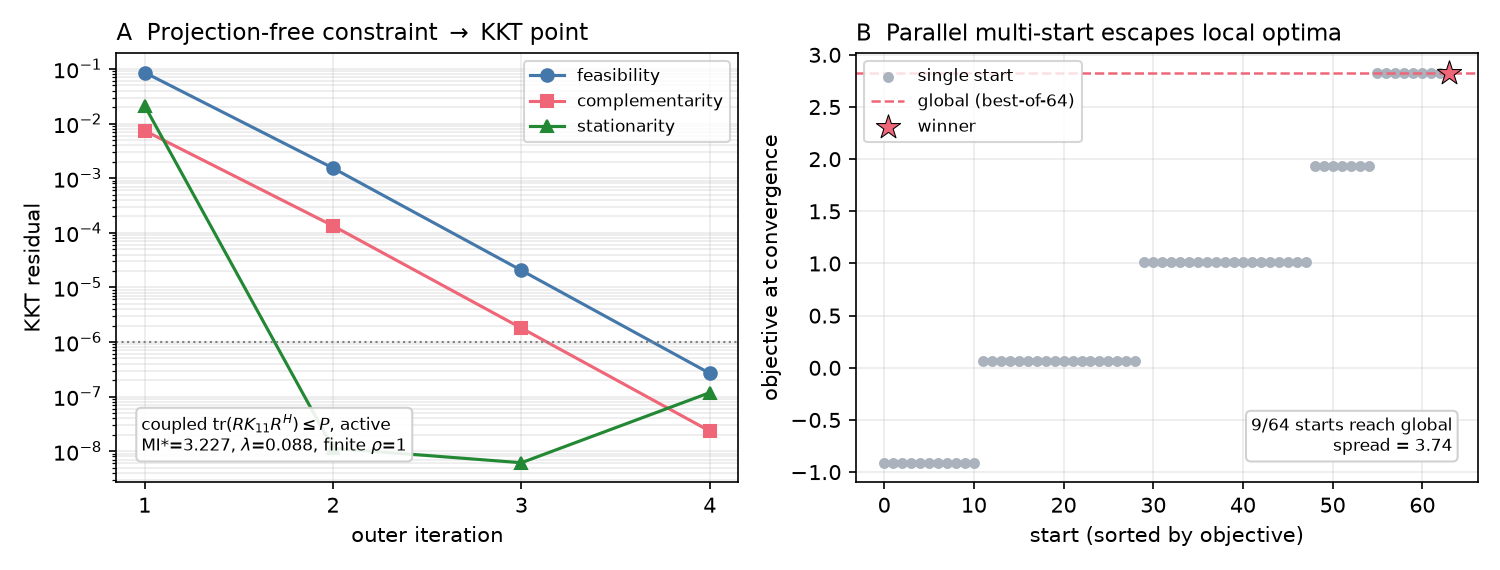
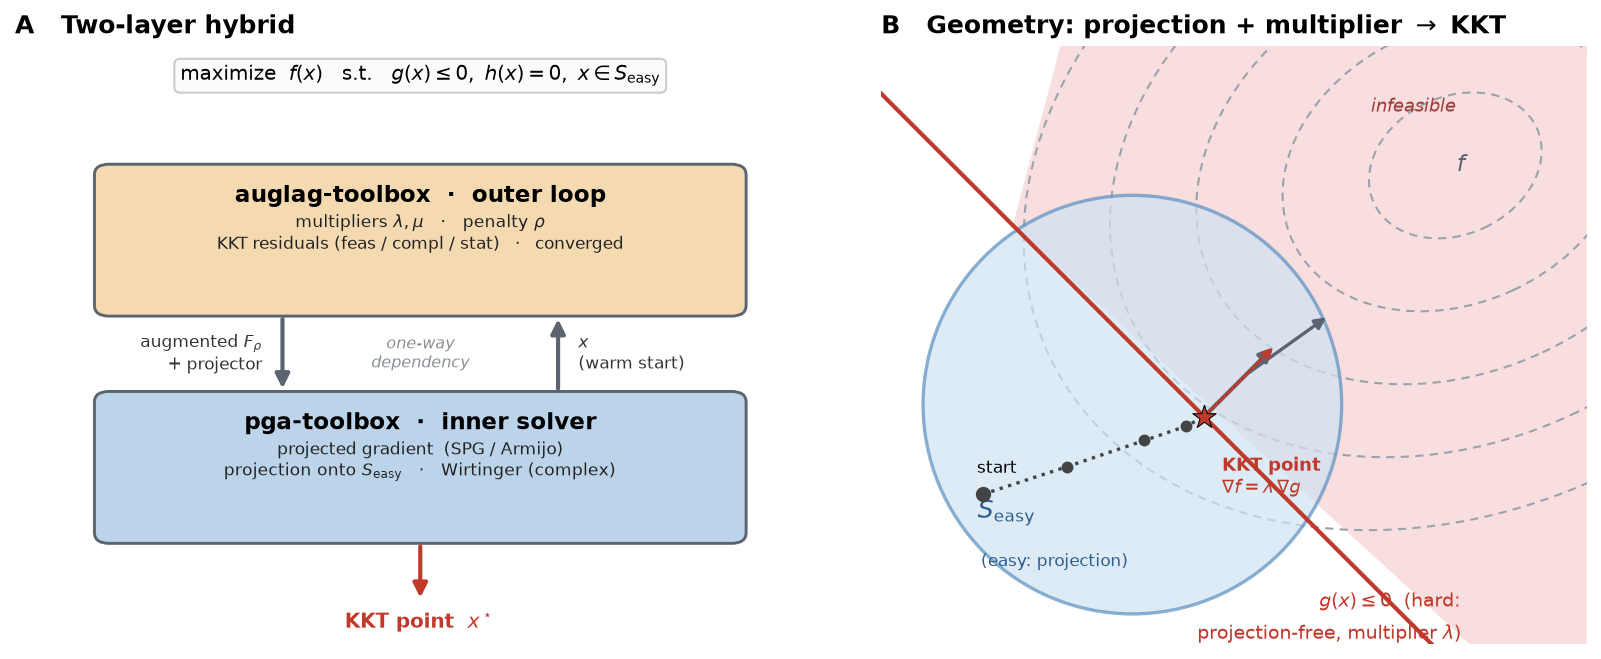
Make visual abstract a conceptual schematic
Replace the data-plot visual abstract with a conceptual diagram: (A) the
two-layer hybrid architecture (auglag outer loop over the pga-toolbox inner
solver); (B) the geometry of projecting onto the easy set S_easy while a
multiplier handles a projection-free hard constraint g(x)<=0, converging to a
KKT point where grad f = lambda grad g. Update README/examples captions.

diff --git a/examples/visual_abstract.py b/examples/visual_abstract.py
@@ -1,16 +1,17 @@
-"""Visual abstract for auglag-toolbox (two panels, both from actual runs).
+"""Conceptual visual abstract for auglag-toolbox (a schematic, not a data plot).
 
-  A  Augmented Lagrangian enforces a projection-free constraint: on the coupled,
-     covariance-dependent relay node-power problem (E2), the KKT residuals
-     (feasibility / complementarity / stationarity) collapse to ~1e-7 at a
-     finite rho, i.e. the solver reaches a feasible KKT point.
-  B  Parallel multi-start escapes local optima: on a multimodal constrained
-     problem, best-of-B (the winner) reaches the global optimum while many of
-     the B independent starts get stuck at worse local optima.
+  Left  : the two-layer architecture -- an outer augmented-Lagrangian loop
+          (multipliers for projection-free constraints) wrapping an inner
+          projected first-order solver (pga-toolbox) that handles the easy,
+          projectable constraints.
+  Right : the geometry -- the feasible region is the easy set S_easy (a ball,
+          projectable) intersected with a hard, projection-free constraint
+          g(x) <= 0. The inner solver projects onto S_easy; the outer multiplier
+          pulls the iterate onto the active hard constraint, converging to a KKT
+          point where grad f = lambda * grad g.
 
-Nothing is hard-coded -- every plotted number comes from the optimiser.
+This is an illustration (no experimental numbers). Run to regenerate the figure:
 
-Run:
     uv run --extra examples python examples/visual_abstract.py
 """
 
@@ -19,142 +20,134 @@ from __future__ import annotations
 import pathlib
 
 import numpy as np
-import torch
 
-from pga_toolbox import (
-    pga_ascent_spg,
-    project_frobenius_ball,
-    project_frobenius_ball_batched,
-)
+import matplotlib
+matplotlib.use("Agg")
+import matplotlib.pyplot as plt
+from matplotlib.patches import Circle, Ellipse, FancyArrowPatch, FancyBboxPatch, Polygon
 
-from auglag_toolbox import augmented_lagrangian, augmented_lagrangian_batched
-
-torch.set_default_dtype(torch.float64)
 FIG = pathlib.Path(__file__).resolve().parent.parent / "docs" / "figures"
 
-
-def logdet_pd(A):
-    A = 0.5 * (A + A.transpose(-1, -2).conj())
-    return torch.linalg.slogdet(A).logabsdet
-
-
-def randmat(d, seed, scale=1.0):
-    g = torch.Generator().manual_seed(seed)
-    return scale * torch.randn(d, d, generator=g, dtype=torch.float64)
+C_OUTER = "#f5d9b0"   # auglag (outer)
+C_INNER = "#bcd4ea"   # pga (inner)
+C_EASY = "#cfe3f3"    # S_easy disk
+C_INFEAS = "#f4c9c9"  # infeasible region
+C_OBJ = "#9aa3ad"     # objective contours
+C_ACC = "#c0392b"     # accents (KKT, constraint)
 
 
-def btrace(A):
-    return torch.diagonal(A, dim1=-2, dim2=-1).sum(-1)
+def _box(ax, x, y, w, h, fc, title, lines):
+    ax.add_patch(FancyBboxPatch((x, y), w, h, boxstyle="round,pad=0.02,rounding_size=0.18",
+                                fc=fc, ec="#5b6470", lw=1.4, zorder=2))
+    ax.text(x + w / 2, y + h - 0.32, title, ha="center", va="top",
+            fontsize=11, fontweight="bold", zorder=3)
+    ax.text(x + w / 2, y + h - 0.78, lines, ha="center", va="top",
+            fontsize=8.4, zorder=3, color="#222")
 
 
-def panel_a_data():
-    """Coupled, covariance-dependent relay node-power constraint (E2)."""
-    d, sigma, Pf = 2, 0.5, 4.0
-    H2 = randmat(d, seed=3)
-    I = torch.eye(d, dtype=torch.float64)
-
-    def mi(F, R):
-        G = H2 @ R @ F
-        C = sigma**2 * (H2 @ R @ R.T @ H2.T) + sigma**2 * I
-        return logdet_pd(G @ G.T + C) - logdet_pd(C)
-
-    def easy_proj(params):
-        F, R = params
-        return [project_frobenius_ball(F, Pf), R]
-
-    F = randmat(d, seed=4, scale=0.3).clone().requires_grad_(True)
-    R = randmat(d, seed=5, scale=0.3).clone().requires_grad_(True)
-    pga_ascent_spg(lambda: mi(F, R), [F, R], projector=easy_proj,
-                   max_iter=400, forward_budget=600)
-    with torch.no_grad():
-        P_relay = 2.0 * float(torch.trace(F @ F.T + sigma**2 * I))
-
-    F = randmat(d, seed=4, scale=0.3).clone().requires_grad_(True)
-    R = randmat(d, seed=5, scale=0.3).clone().requires_grad_(True)
-
-    def g_relay():
-        K11 = F @ F.T + sigma**2 * I
-        return torch.trace(R @ K11 @ R.T) - P_relay
-
-    res = augmented_lagrangian(lambda: mi(F, R), [F, R],
-                               inequality=[g_relay], easy_projector=easy_proj)
-    feas = np.array([h["feas"] for h in res.history])
-    compl = np.array([h["compl"] for h in res.history])
-    stat = np.array([h["stat"] for h in res.history])
-    return feas, compl, stat, res.objective, res.multipliers_ineq[0], res.rho
+def _arrow(ax, p0, p1, color="#5b6470", lw=2.0, style="-|>", ms=14):
+    ax.add_patch(FancyArrowPatch(p0, p1, arrowstyle=style, mutation_scale=ms,
+                                 lw=lw, color=color, zorder=4))
 
 
-def panel_b_data():
-    """Multimodal tilted double well with an active quadratic constraint."""
-    n, tilt, P, cap, B = 6, 0.5, 12.0, 5.5, 64
-    Xb = (0.6 * torch.randn(B, n, generator=torch.Generator().manual_seed(123),
-                            dtype=torch.float64)).clone().requires_grad_(True)
-    res = augmented_lagrangian_batched(
-        lambda: (-(Xb**2 - 1) ** 2 + tilt * Xb).sum(-1), [Xb],
-        inequality=[lambda: (Xb**2).sum(-1) - cap],
-        easy_projector=lambda ps: [project_frobenius_ball_batched(ps[0], P)])
-    obj = res.objective.detach().numpy()
-    return obj, res.winner, B
+def architecture(ax):
+    ax.set_xlim(0, 10)
+    ax.set_ylim(0, 10)
+    ax.axis("off")
+    ax.set_title("A   Two-layer hybrid", fontsize=12, loc="left", fontweight="bold")
+
+    ax.text(5, 9.5, r"maximize  $f(x)$   s.t.   $g(x)\leq 0,\ h(x)=0,\ x\in S_{\mathrm{easy}}$",
+            ha="center", va="center", fontsize=9.5,
+            bbox=dict(boxstyle="round", fc="#fbfbfb", ec="0.8"))
+
+    _box(ax, 1.0, 5.5, 8.0, 2.5, C_OUTER, "auglag-toolbox  ·  outer loop",
+         "multipliers $\\lambda,\\mu$   ·   penalty $\\rho$\n"
+         "KKT residuals (feas / compl / stat)   ·   converged")
+    _box(ax, 1.0, 1.7, 8.0, 2.5, C_INNER, "pga-toolbox  ·  inner solver",
+         "projected gradient  (SPG / Armijo)\n"
+         "projection onto $S_{\\mathrm{easy}}$   ·   Wirtinger (complex)")
+
+    _arrow(ax, (3.3, 5.5), (3.3, 4.2))           # outer -> inner
+    ax.text(3.05, 4.85, "augmented $F_\\rho$\n+ projector", ha="right", va="center",
+            fontsize=8.2, color="#333")
+    _arrow(ax, (6.7, 4.2), (6.7, 5.5))           # inner -> outer
+    ax.text(6.95, 4.85, "$x$\n(warm start)", ha="left", va="center",
+            fontsize=8.2, color="#333")
+    ax.text(5.0, 4.85, "one-way\ndependency", ha="center", va="center",
+            fontsize=7.6, style="italic", color="#8a8f96")
+
+    _arrow(ax, (5.0, 1.7), (5.0, 0.7), color=C_ACC)
+    ax.text(5.0, 0.35, r"KKT point  $x^\star$", ha="center", va="center",
+            fontsize=9.5, fontweight="bold", color=C_ACC)
+
+
+def geometry(ax):
+    ax.set_xlim(-0.5, 5.4)
+    ax.set_ylim(-0.7, 4.3)
+    ax.set_aspect("equal")
+    ax.axis("off")
+    ax.set_title("B   Geometry: projection + multiplier $\\to$ KKT", fontsize=12,
+                 loc="left", fontweight="bold")
+
+    opt = np.array([4.3, 3.3])          # unconstrained objective optimum (outside)
+    disk_c = np.array([1.6, 1.3])
+    disk_r = 1.75
+
+    # objective contours (dashed ellipses centred at the unconstrained optimum)
+    for k in range(1, 6):
+        ax.add_patch(Ellipse(opt, 1.5 * k, 1.15 * k, angle=25, fill=False,
+                             ec=C_OBJ, ls=(0, (4, 3)), lw=1.0, zorder=1))
+    ax.text(*(opt + [0.05, 0.0]), "$f$", color="#5b6470", fontsize=11,
+            ha="center", va="center", fontweight="bold")
+    _arrow(ax, (2.55, 1.55), (3.25, 2.05), color="#5b6470", lw=1.6, ms=11)
+
+    # hard constraint  g(x) = x + y - 3.4 <= 0 ; infeasible half shaded
+    infeas = Polygon([(0.6, 2.8), (5.4, -1.6), (5.4, 4.3), (1.0, 4.3)],
+                     closed=True, fc=C_INFEAS, ec="none", alpha=0.6, zorder=0)
+    ax.add_patch(infeas)
+    xs = np.array([-0.5, 4.6])
+    ax.plot(xs, 3.4 - xs, color=C_ACC, lw=2.0, zorder=3)
+    ax.text(4.35, -0.35, r"$g(x)\leq 0$  (hard:", color=C_ACC, fontsize=9,
+            ha="right", va="center")
+    ax.text(4.35, -0.62, r"projection-free, multiplier $\lambda$)", color=C_ACC,
+            fontsize=9, ha="right", va="center")
+    ax.text(3.95, 3.75, "infeasible", color="#a03b3b", fontsize=8.5, style="italic",
+            ha="center")
+
+    # easy set S_easy (projectable disk)
+    ax.add_patch(Circle(disk_c, disk_r, fc=C_EASY, ec="#5b8fc0", lw=1.6,
+                        alpha=0.7, zorder=1))
+    ax.text(0.55, 0.35, r"$S_{\mathrm{easy}}$", fontsize=12, color="#2c5f8f",
+            ha="center", fontweight="bold")
+    ax.text(0.95, -0.05, "(easy: projection)", fontsize=8, color="#2c5f8f", ha="center")
+
+    # iterate trajectory: start -> projected steps -> onto active constraint
+    traj = np.array([[0.35, 0.55], [1.05, 0.78], [1.7, 1.0], [2.05, 1.12], [2.2, 1.2]])
+    ax.plot(traj[:, 0], traj[:, 1], ":", color="#444", lw=1.6, zorder=4)
+    ax.scatter(traj[:-1, 0], traj[:-1, 1], s=22, color="#444", zorder=5)
+    ax.scatter([traj[0, 0]], [traj[0, 1]], s=40, color="#444", zorder=6)
+    ax.text(traj[0, 0] - 0.05, traj[0, 1] + 0.18, "start", fontsize=8, ha="left")
+
+    # KKT point and the stationarity condition grad f = lambda grad g
+    kkt = np.array([2.2, 1.2])
+    ax.scatter(*kkt, s=140, marker="*", color=C_ACC, edgecolor="k", lw=0.5, zorder=7)
+    n = np.array([1.0, 1.0]) / np.sqrt(2)
+    _arrow(ax, tuple(kkt), tuple(kkt + 0.85 * n), color="#5b6470", lw=2.0, ms=13)
+    _arrow(ax, tuple(kkt), tuple(kkt + 0.85 * n), color=C_ACC, lw=1.2, ms=10)
+    ax.text(kkt[0] + 0.15, kkt[1] - 0.32,
+            r"KKT point" "\n" r"$\nabla f = \lambda\,\nabla g$",
+            fontsize=8.8, color=C_ACC, ha="left", va="top", fontweight="bold")
 
 
 def main():
-    feas, compl, stat, mi_star, lam, rho = panel_a_data()
-    obj, winner, B = panel_b_data()
-    glob = float(obj.max())
-    near = int((obj >= glob - 1e-3).sum())
-
-    import matplotlib
-    matplotlib.use("Agg")
-    import matplotlib.pyplot as plt
-
-    fig, (axA, axB) = plt.subplots(1, 2, figsize=(10, 3.8))
-
-    # ---- Panel A: KKT convergence ----
-    it = np.arange(1, len(feas) + 1)
-    axA.semilogy(it, np.maximum(feas, 1e-16), "o-", color="#4477aa", label="feasibility")
-    axA.semilogy(it, np.maximum(compl, 1e-16), "s-", color="#ee6677", label="complementarity")
-    axA.semilogy(it, np.maximum(stat, 1e-16), "^-", color="#228833", label="stationarity")
-    axA.axhline(1e-6, color="gray", ls=":", lw=1)
-    axA.set_xlabel("outer iteration")
-    axA.set_ylabel("KKT residual")
-    axA.set_title("A  Projection-free constraint $\\to$ KKT point", fontsize=11, loc="left")
-    axA.set_xticks(it)
-    axA.legend(fontsize=8, loc="upper right")
-    axA.grid(True, which="both", alpha=0.25)
-    axA.text(0.04, 0.06,
-             f"coupled $\\mathrm{{tr}}(R K_{{11}} R^H)\\leq P$, active\n"
-             f"MI*={mi_star:.3f}, $\\lambda$={lam:.3f}, finite $\\rho$={rho:.0f}",
-             transform=axA.transAxes, fontsize=8, va="bottom",
-             bbox=dict(boxstyle="round", fc="white", ec="0.8", alpha=0.9))
-
-    # ---- Panel B: multistart escapes local optima ----
-    order = np.argsort(obj)
-    rank = np.arange(B)
-    is_win = order == winner
-    axB.scatter(rank[~is_win], obj[order][~is_win], s=18, color="#aab2bd",
-                label="single start", zorder=2)
-    axB.axhline(glob, color="#ee6677", ls="--", lw=1.2,
-                label=f"global (best-of-{B})")
-    wpos = int(np.where(order == winner)[0][0])
-    axB.scatter([wpos], [obj[winner]], s=150, marker="*", color="#ee6677",
-                edgecolor="k", linewidth=0.5, zorder=3, label="winner")
-    axB.set_xlabel("start (sorted by objective)")
-    axB.set_ylabel("objective at convergence")
-    axB.set_title("B  Parallel multi-start escapes local optima", fontsize=11, loc="left")
-    axB.legend(fontsize=8, loc="upper left")
-    axB.grid(True, alpha=0.25)
-    axB.text(0.96, 0.06,
-             f"{near}/{B} starts reach global\nspread = {glob - float(obj.min()):.2f}",
-             transform=axB.transAxes, fontsize=8, va="bottom", ha="right",
-             bbox=dict(boxstyle="round", fc="white", ec="0.8", alpha=0.9))
-
+    fig, (axA, axB) = plt.subplots(1, 2, figsize=(11, 4.5),
+                                   gridspec_kw={"width_ratios": [1.05, 1.0]})
+    architecture(axA)
+    geometry(axB)
     fig.tight_layout()
     FIG.mkdir(parents=True, exist_ok=True)
     out = FIG / "visual_abstract.png"
-    fig.savefig(out, dpi=150)
-    print(f"panel A: feas {feas[-1]:.1e} compl {compl[-1]:.1e} stat {stat[-1]:.1e} "
-          f"MI*={mi_star:.4f} lambda={lam:.4f} rho={rho:.0f}")
-    print(f"panel B: global={glob:.4f}  winner={winner}  reach-global {near}/{B}")
+    fig.savefig(out, dpi=150, bbox_inches="tight")
     print(f"saved -> {out}")
 
 

diff --git a/README.md b/README.md
@@ -9,13 +9,14 @@ complex-valued (Wirtinger) and real parameters. Built on PyTorch.
 
 ![auglag-toolbox visual abstract](docs/figures/visual_abstract.png)
 
-*Both panels are produced from actual runs of the library
-(`examples/visual_abstract.py`): **(A)** on a coupled, covariance-dependent relay
-node-power constraint (no closed-form projection), the augmented Lagrangian drives
-all three KKT residuals to ~1e-7 at a finite penalty ρ=1 — a feasible KKT point;
-**(B)** on a multimodal constrained problem, batched parallel multi-start reaches
-the global optimum (best-of-64) while most single starts settle at worse local
-optima.*
+*A conceptual schematic (drawn by `examples/visual_abstract.py`): **(A)** the
+two-layer hybrid — an outer augmented-Lagrangian loop (multipliers for
+projection-free constraints) wrapping the inner `pga-toolbox` projected solver
+(easy, projectable constraints); **(B)** the geometry — the feasible set is the
+projectable easy set $S_{\mathrm{easy}}$ intersected with a projection-free hard
+constraint $g(x)\le 0$. The inner solver projects onto $S_{\mathrm{easy}}$ while
+the multiplier pulls the iterate onto the active constraint, converging to a KKT
+point where $\nabla f = \lambda\,\nabla g$.*
 
 This library owns exactly one thing: the **outer loop that enforces nonlinear,
 coupled, covariance-dependent constraints** which have no closed-form

diff --git a/examples/README.md b/examples/README.md
@@ -39,7 +39,8 @@ power equal to the cap, at finite `rho = 1.0`.
 
 ## `visual_abstract.py`
 
-Generates the README visual abstract (`docs/figures/visual_abstract.png`) from
-actual runs: panel A is the coupled covariance constraint converging to a KKT
-point; panel B is batched multi-start escaping local optima on a multimodal
-problem. Re-run to regenerate the committed figure.
+Draws the README visual abstract (`docs/figures/visual_abstract.png`) — a
+conceptual schematic (not a data plot): panel A is the two-layer architecture
+(outer augmented Lagrangian over inner pga-toolbox); panel B is the geometry of
+projection onto `S_easy` plus a multiplier on the projection-free hard
+constraint, converging to a KKT point. Re-run to regenerate the committed figure.